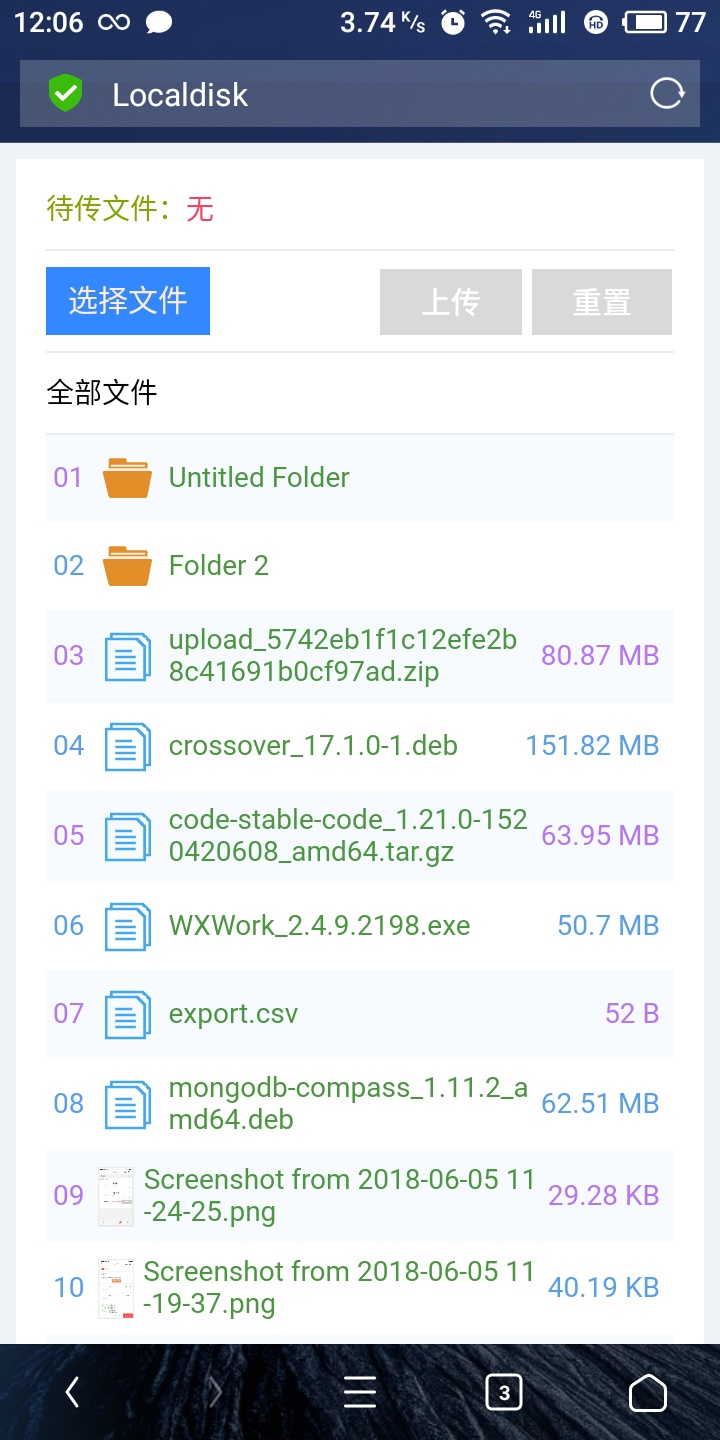
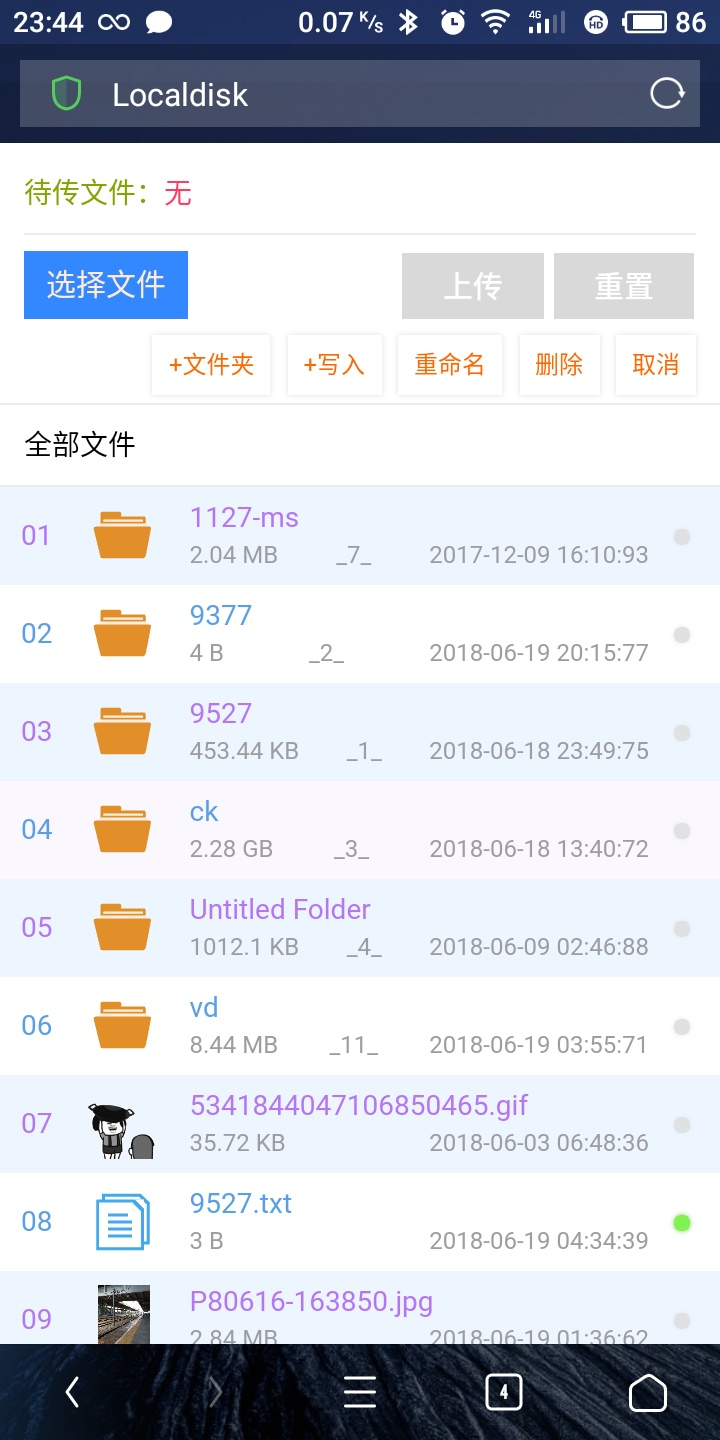
auto attach btns to top when scrolls down, update preview

diff --git a/static/css/style.css b/static/css/style.css
@@ -78,12 +78,13 @@
 	.text-right {
 	   text-align: right;
 	}
-
+	/* 顶部全部按钮 */
 	.btngroup{
 		padding-left: 12px;
 	   padding-right: 12px;
 	   padding-bottom: 4px;
 	}
+	/* 选择文件-外容器 */
 	.upload {
 	   overflow: hidden;
 	   position: relative;
@@ -102,7 +103,7 @@
 	.upload:hover {
 	   background-color: #317ef3;
 	}
-
+	/* 选择文件 input */
 	.select-btn {
 	   display: block;
 	   z-index: 10;
@@ -133,6 +134,11 @@
 	   font-size: 15px;
 	   font-weight: 500;
 	   box-sizing: border-box;
+	}
+
+	/* 系统文件修改按钮 */
+	.btns{
+		text-align: right;
 	}
 
 	.create-btn {
@@ -374,4 +380,17 @@
 	.checked {
 	   box-shadow: 0 0 3px 0 #5cb938;
 	   background: #80f353;
+	}
+
+	.p-fixed{
+		z-index: 10;
+		position: fixed;
+		top: 0;
+		left: 50%;
+		width: 100%;
+		padding: 12px 10px 5px 0;
+		box-sizing: border-box;
+		transform: translateX(-50%);
+		background-color: #fff;
+		border-bottom: .5px solid #E9ECF0;
 	}

diff --git a/static/js/upload.js b/static/js/upload.js
@@ -11,6 +11,7 @@ let processing = document.getElementById('processing');
 let cancel = document.getElementById('cancel');
 let deleteFile = document.getElementById('deleteFile');
 let renameFile = document.getElementById('renameFile');
+let crud = document.getElementById('crud');
 
 window.onload = function () {
 	upload.value = null;
@@ -222,4 +223,16 @@ renameFile.onclick = function () {
 			},
 		});
 	}
+};
+
+window.onresize = window.onscroll = function () {
+	let scrollTop = Math.max(document.documentElement.scrollTop, document.body.scrollTop, window.scrollY);
+	if (scrollTop > 130) {
+		if (!crud.className.includes('p-fixed')) {
+			crud.className += ' p-fixed';
+		}
+	} else {
+		crud.className = crud.className.replace('p-fixed', '');
+	}
+
 };
